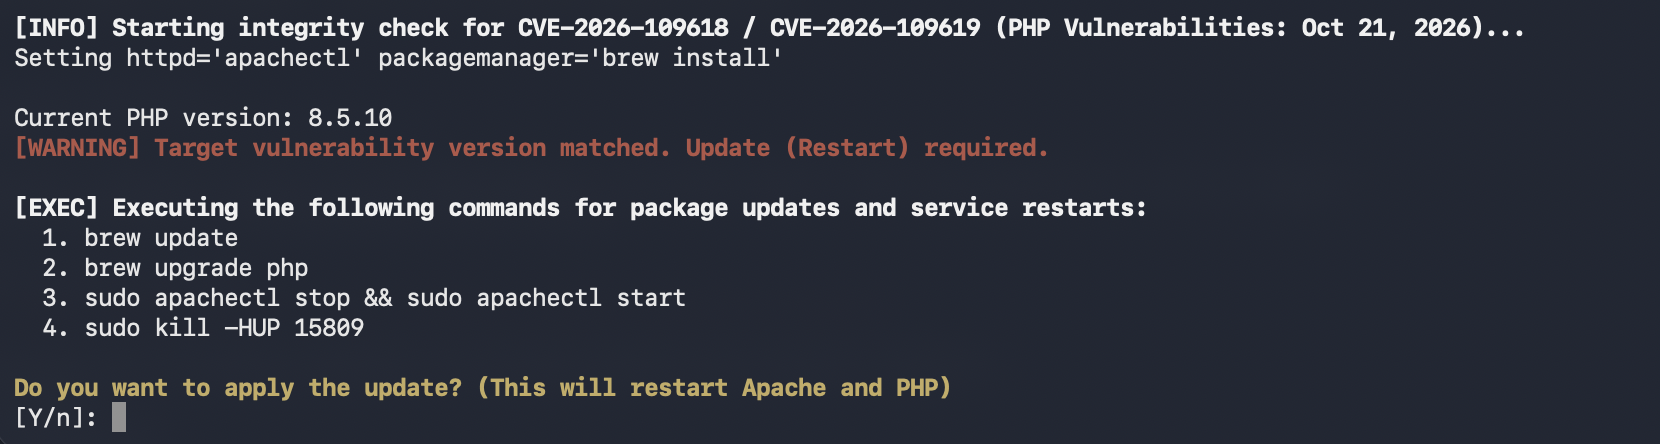
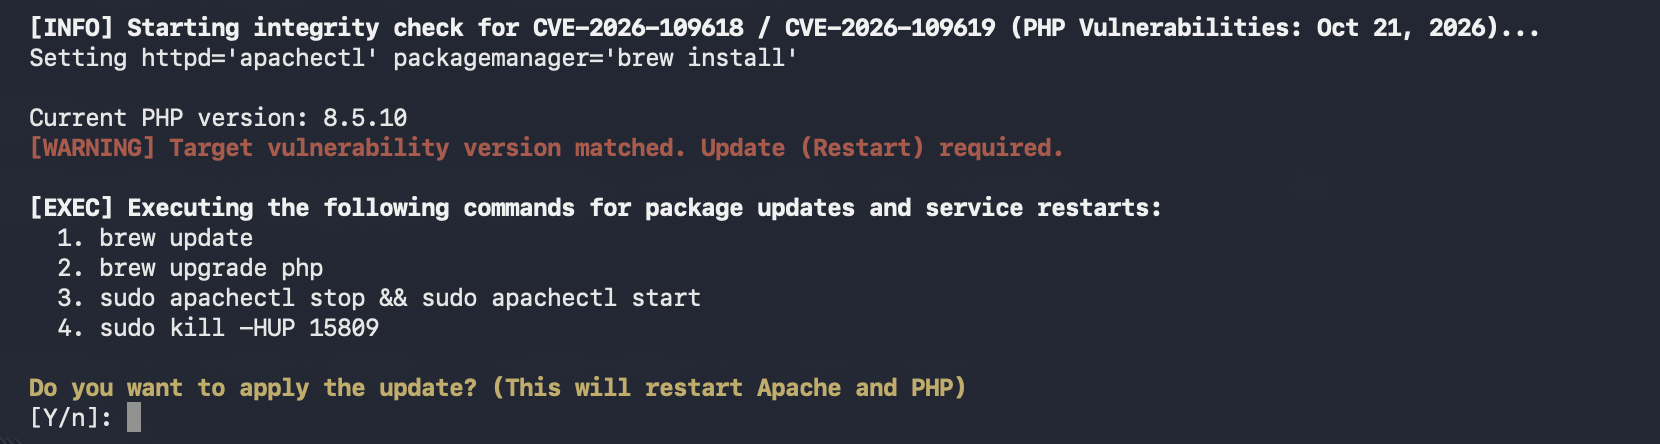
docs: minor changes

diff --git a/README.md b/README.md
@@ -7,11 +7,11 @@ A simple tool to check if your installation is affected by [CVE-2026-109618 and 
 Important: This is a version-based check, not a definitive vulnerability test. It may not recognize distro-specific backported security fixes. 
 
 ## Update with confirmation
-Before making changes, it shows the exact commands it will run and asks for confirmation. Only the PHP-related packages are targeted. If you confirm, it updates PHP-related packages through the system package manager (asks for sudo when necessary).
-
-![Warn](docs/2.png)
+Before making changes, it shows the exact commands it will run and asks for confirmation. Only the PHP-related packages are targeted. Upon confirmation, the tool updates PHP-related packages through the system package manager (prompting for sudo if necessary).
 
 Important: Review the commands before proceeding, as package updates may affect running applications and services.
+
+![Warn](docs/2.png)
 
 ## Requirements
 Tested on macOS, APT-based Linux (Debian/Ubuntu), RHEL-based Linux (Rocky/Alma), and Alpine Linux.
